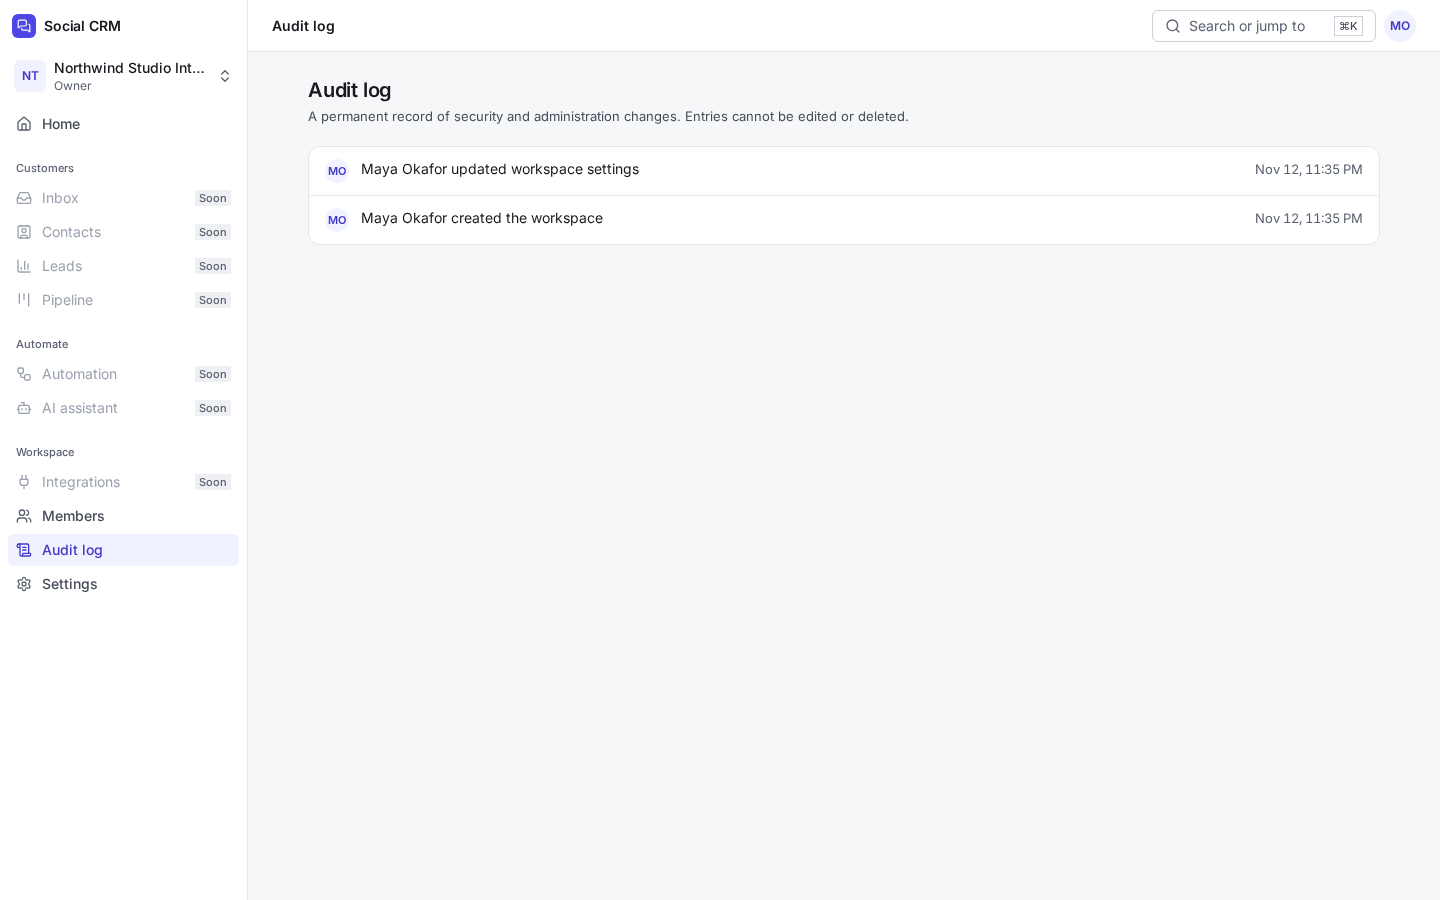
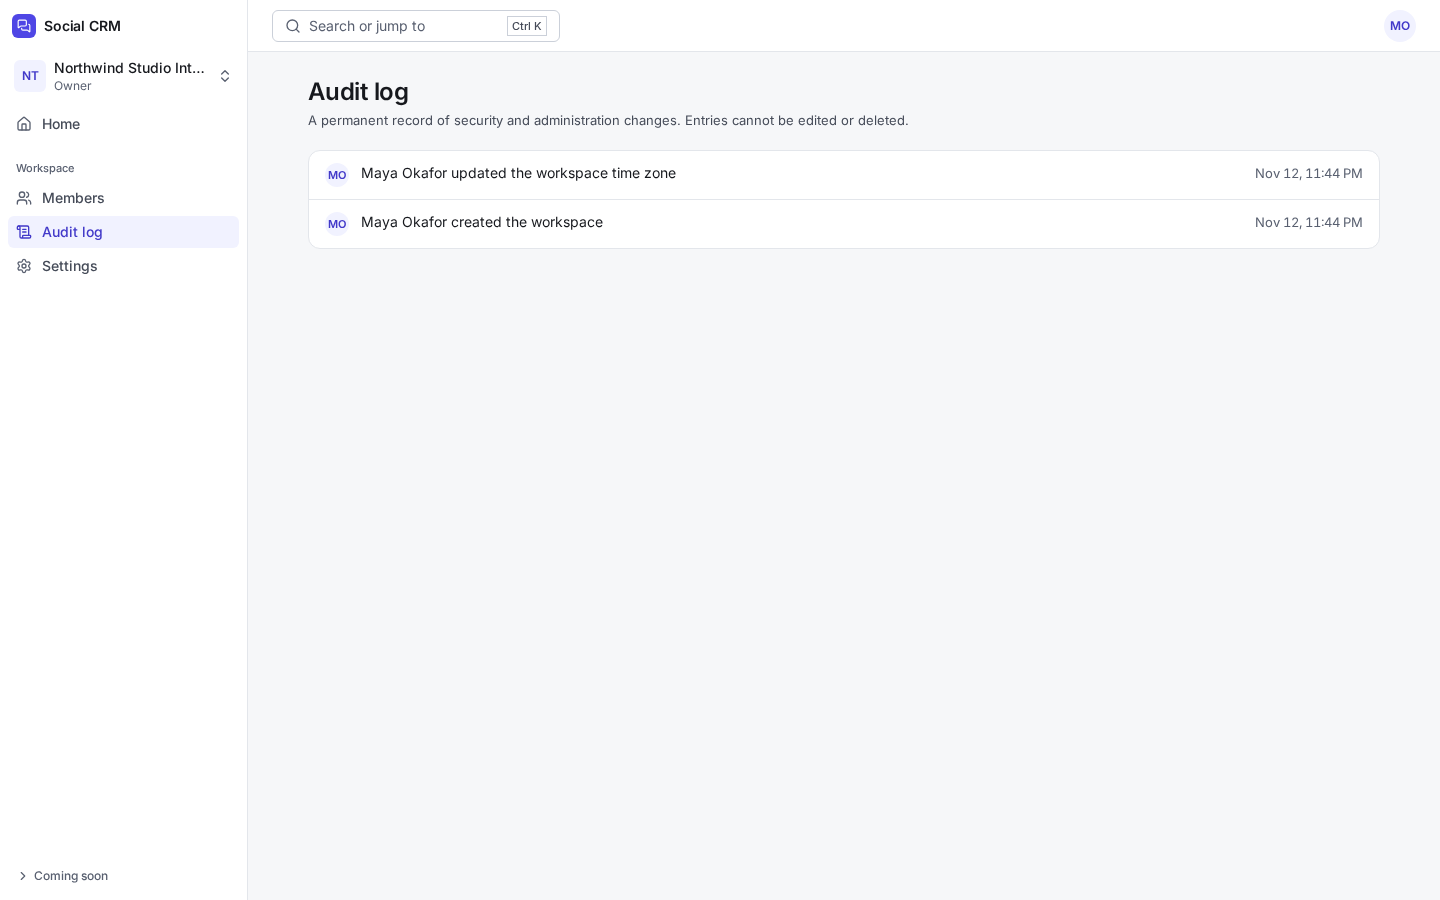
docs: design critique and refreshed screenshots

diff --git a/docs/design/critique-phase1-shell.md b/docs/design/critique-phase1-shell.md
@@ -1,0 +1,206 @@
+# Critique: Phase 1 web shell
+
+Scope: `docs/design/screenshots/phase1-shell/*` (19 PNGs) and the code in `apps/web/app/**`, `apps/web/components/**`, `apps/web/lib/nav.ts`, `packages/design-tokens/src/tokens.ts`, `apps/web/app/globals.css`. Reviewed against `PRODUCT.md` and `docs/design/design-system.md`. Static review of screenshots and source; nothing was run. Findings marked "verify" rest on code reading, not a live repro.
+
+Severity: blocker = ship-stopper or breaks a stated requirement; major = clearly hurts quality or accessibility, fix before Phase 2 builds on it; minor = polish or consistency.
+
+Overall: the shell is clean and restrained, but it reads as a competent shadcn default. It has no point of view yet, and the nav carries a lot of promise (7 of 11 items disabled). Phase 1 has real bugs in focus styling and the drawer, one product-honesty problem (roadmap phases shown to customers), and a weak type hierarchy.
+
+---
+
+## Blockers
+
+### B1. Global focus rule is unlayered and overrides Tailwind utilities, so focus and radius break everywhere
+- Where: `apps/web/app/globals.css:75-76`. Visible in `command-menu-1440.png` (search input has a detached blue box offset up and left of the field) and `role-dialog-1440.png`.
+- Problem: `:focus-visible { outline: 2px solid; outline-offset: 2px; border-radius: 4px; }` sits outside any `@layer`. Unlayered CSS beats Tailwind v4's layered utilities. So `outline-none` on the command input, dropdown items and `<main>` is ignored, and `border-radius: 4px` rewrites the radius of whatever is focused. A `rounded-full` avatar trigger becomes a 4px square on focus. Buttons, inputs and nav links change shape when focused.
+- Why it matters: focus indication is the most-used a11y affordance and it is visibly wrong. The command palette is the flagship interaction. `<main tabindex=-1>` will also show a ring after the skip link.
+- Fix: wrap the base rules in `@layer base { ... }`. Drop `border-radius` from the rule and set the ring with `outline` only. Use `outline-offset: 2px` on controls and `-2px` on inputs inside bordered containers (the cmdk input). Then delete the stray `outline-none` classes that were fighting it, or keep them only where the ring is deliberately replaced (cmdk selected rows).
+
+### B2. Product roadmap leaks into customer UI and the nav is mostly dead
+- Where: `lib/nav.ts:22-38`, `app/w/[workspaceId]/page.tsx:16-21`, `sidebar-nav.tsx:21-31`, `home-1440.png`, `drawer-375.png`, `command-menu-1440.png`.
+- Problem: 7 of the 11 nav entries are disabled "Soon". Their reasons are tooltips reading "Contacts arrive in Phase 2" and "Meta integration arrives in Phase 3". Home's checklist repeats the same phase numbers. "Phase N" is internal planning vocabulary. `PRODUCT.md` says unavailable features are shown "as unavailable with a reason", but a customer cannot act on "Phase 2".
+- Why it matters: the first screen of the product advertises what does not exist. The three working destinations (Members, Audit log, Settings) look like footnotes under a wall of grey. Attio, Linear, Stripe and Intercom do not ship greyed-out nav; users learn to ignore the grey and start distrusting the rest.
+- Fix (pick one, in order of preference):
+  1. Remove unbuilt items from the primary nav. Home's "Getting started" becomes the single honest roadmap: "Connect Messenger or Instagram: not available yet", with no phase numbers.
+  2. If the product wants to show the shape, collapse all unbuilt items into one "Coming soon" disclosure at the bottom of the nav (`<details>` or a button with `aria-expanded`, closed by default). Render items as plain non-interactive text, not links. One line of copy, not seven tooltips.
+  3. Keep at most Inbox, Contacts and Pipeline visible as the "spine", with one shared "Soon" treatment.
+  Either way, strip "Phase N" from every user-facing string.
+
+---
+
+## Major
+
+### M1. Disabled nav items are fake links: focusable, `role="link"`, no action, reason partly tooltip-only
+- Where: `sidebar-nav.tsx:23`.
+- Problem: `<span tabindex=0 role="link" aria-disabled>` puts seven dead stops in the tab order, and Enter does nothing. A `role="link"` with no `href` and no activation breaks the ARIA contract. The reason is an sr-only description plus a hover/focus tooltip. Touch users never see the tooltip: that covers the 375 drawer (`drawer-375.png`) and the 768 rail, which is an iPad portrait width. `fg-disabled` (#9AA1AE) on white is about 2.6:1, so the labels are also hard to read.
+- Fix: if kept, render as `<div aria-disabled="true">` with no `role=link`. Make it non-tabbable, or tabbable with `role="note"` (a deliberate choice). Put the reason inline as visible text, or reachable by tap through a popover, not hover only. Use `fg-subtle` (#596070, 6.4:1) for the label and distinguish disabled by dropping the icon, not by low contrast. Best resolved by B2.
+
+### M2. Drawer stays "open" (modal state, aria-hidden, scroll lock) when the viewport crosses `md`
+- Where: `app-shell.tsx:51-65`. The drawer content and overlay use `md:hidden`, but the Radix `open` state persists.
+- Problem: rotating a tablet or resizing a window with the drawer open leaves the visual drawer gone while Radix still marks the page `aria-hidden` and applies `pointer-events: none` to the body. The app is dead until Esc (verify).
+- Fix: close on `matchMedia("(min-width: 768px)")` change. Or render the drawer only below `md`, using a hook that returns `isMobile`.
+
+### M3. Command menu: the useful items are below the fold and the list is mostly disabled
+- Where: `command-menu.tsx:36-45`, `command-menu-1440.png`.
+- Problem: "Go to" lists all 11 pages in nav order. The first screen shows Home plus six disabled "Not available yet" rows. Members, Audit log and Settings are cut off by `max-h-80`. There is no current-page marker, no footer hints, and no fuzzy aliases.
+- Fix: do not list disabled items (consistent with B2). Sort enabled items first. Add a footer row ("↑↓ navigate, ↵ open, Esc close"). Add actions that are real now: "Invite member (not available)" is not one, but "Change workspace name" is. Mark the current page.
+
+### M4. Type hierarchy is flat: page title is 20px, topbar title is 14px, and they duplicate
+- Where: `panel.tsx:24` (h1 `text-lg`=20px), `app-shell.tsx:70` (topbar `<p>` 14px semibold), `tokens.ts:70`. Visible on every 1440 shot ("Home" in the bar, then the workspace name below it).
+- Problem: the scale defines 11, 12, 13, 14, 16, 20, 24 and 28px. The app uses 11, 12, 13, 14 and 20 only, and 24/28 never appear. Four near-identical small sizes (11/12/13/14) carry all the information. The topbar repeats what the h1 says, and is a `<p>`, so there is no landmark title. On Home the h1 is the workspace name (long, wraps to 2 lines at 375) while the bar says "Home", so there are two competing titles.
+- Fix:
+  - Collapse the working scale to 12 / 14 / 16 / 20 / 28, and drop 11 and 13 unless a role needs them.
+  - Make the topbar a breadcrumb or context ("Northwind Studio / Members") or empty, never a second title. The page h1 is the title.
+  - Raise page h1 to 24px/600 with -0.02em, and give section h2s 14px/600 uppercase-free. That is the Linear/Stripe level of contrast.
+  - Move the repeated `tracking-[-0.01em]` (4 uses) into a `--tracking-tight` token.
+
+### M5. Members table: date wraps to 3 lines at 768, row density contradicts the spec, dead rows
+- Where: `members-table.tsx:113`, `table.tsx:16`, `members-768.png`, `members-1440.png`.
+- Problem:
+  - At 768 "Nov 12, 2026" breaks into three lines ("Nov / 12, / 2026"). The TD lacks `whitespace-nowrap` and the email column is greedy.
+  - Rows are about 61px against the design system's default of about 40px. Email as a second line plus a 32px avatar is "comfortable" density, but is presented as the default.
+  - The Owner row has an empty actions cell with no explanation. The `TR` hover `bg-subtle` (#FAFAFB on white, about 1.04:1) is imperceptible and implies the row is clickable when it is not.
+  - Name column dominates (about 700px at 1440) so Role and Joined float far from the name.
+  - Seeded emails like `mayaokafor-mwehgm8a-27@example.com` look like test fixtures. The realistic-content rule is broken in the one screenshot that is all data.
+  - There is no member count, search, or Invite action (disabled with a reason, per the product rules).
+- Fix: `whitespace-nowrap tnum` on the Joined cell. Put email in its own column and keep a single-line row at about 44px. Make the name column `max-w`, not greedy. Show a muted "Owner" explanation, or an `aria-label` on a disabled kebab, for rows with no actions. Drop the row hover or give it a real affordance. Add a disabled "Invite member" button with an inline reason ("Invitations aren't available yet."). Re-seed with clean emails.
+
+### M6. Role dialog: initial focus lands on the Close button; disabled primary has no explanation
+- Where: `overlays.tsx:50-63`, `role-dialog-1440.png`. Focus ring is on the X. The primary "Save role" is `opacity-50` lavender with white text (about 2:1).
+- Fix: put initial focus on the Select with `onOpenAutoFocus` and a ref. Drop the always-visible X in small confirm dialogs (Esc and Cancel already exist). Show "Save role" disabled only with the helper text "Choose a different role to save." Replace `disabled:opacity-50` with explicit disabled tokens that keep 3:1 for the UI component.
+
+### M7. Auth: no recovery path, validation does not move focus, dead-end onboarding
+- Where: `auth-form.tsx`, `create-workspace-form.tsx`, `login-errors-*.png`, `onboarding-1440.png`.
+- Problem:
+  - Sign-in has no "Forgot password" link. Show it disabled with a reason if the flow does not exist.
+  - On submit with errors, focus stays on the button. Move focus to the first invalid field and consider an `aria-live` summary.
+  - Register's password hint ("At least 10 characters.") disappears the moment an error shows. `Field` hides the hint but `aria-describedby` still points at its missing id (`field.tsx:10,15`).
+  - Onboarding gives a first-time user no way out (no Sign out) unless `?new=1`. A wrong-account user is stuck.
+  - Card widths differ: auth `max-w-sm` (384px), onboarding `max-w-md` (448px), at the same visual level.
+  - The password field has no show/hide toggle, and `globals.css:79` explicitly hides the native one.
+  - Welcome copy "Pick up your conversations." promises an inbox that does not exist.
+- Fix: add the toggle, a first-error focus helper, and a Sign out link in onboarding. Align both cards to one width. Keep the hint visible alongside the error, or render both. Change the copy to what is true ("Sign in to your workspace.").
+
+### M8. Inputs are 14px, which triggers iOS Safari zoom on focus
+- Where: `input.tsx:5` (`text-base` = 14px). Relevant at 375 for login, settings and onboarding.
+- Fix: `text-md` (16px) on controls at coarse pointers or below `md`. Verify: `pointer-coarse:text-md`.
+
+### M9. Skeleton is one table-shaped placeholder for every route
+- Where: `app/w/[workspaceId]/loading.tsx`.
+- Problem: it shows a list of rows with avatars while Home is two panels and Settings is a form. The design system promises "skeleton loading shaped like the final content". This causes layout jump. It also double-announces (`role=status aria-label` plus an sr-only "Loading…").
+- Fix: per-route `loading.tsx`, or a small `PageSkeleton` with `variant="list|panels|form"`. Keep a single accessible label.
+
+### M10. Browser-surface theming is incomplete
+- Where: `app/layout.tsx`, `globals.css:61-79`.
+- Problem: no `viewport`/`themeColor` export (mobile address bar stays default), no favicon or app icons, no `accent-color` for native checkbox/radio, no autofill override (Chrome paints a yellow/blue fill on the auth inputs against the white card), no `color-scheme` meta. Dark mode switches only `color-scheme` on `html[data-theme=dark]` and nothing drives it. The Select chevron is a hard-coded data URI (see M12).
+- Fix: export `viewport = { themeColor: [{ media: "(prefers-color-scheme: light)", color: "#F6F7F9" }, ...] }`. Add `accent-color: var(--accent)`. Add an `input:-webkit-autofill` rule using `box-shadow: inset 0 0 0 100px var(--bg-surface)` plus a text-fill color. Add `app/icon.svg`. Add `::-webkit-scrollbar` fallback for Safari.
+
+### M11. Audit log: low information, awkward 375 layout
+- Where: `audit-list.tsx`, `audit-1440.png`, `audit-375.png`.
+- Problem:
+  - "Maya Okafor updated workspace settings" does not say what changed. An audit log that hides the diff, target and time precision is a feed, not an audit record.
+  - Timestamps have no year (`formatDateTime`). Ambiguous across years.
+  - At 375 the timestamp sits beside the text and takes about 110px, squeezing the sentence to 2 lines.
+  - The 24px avatar with 11px initials looks cramped and sits 2px low relative to the first text line (visible in both screenshots).
+- Fix: show the change ("Name: 'Northwind' to 'Northwind Studio'", "Time zone: UTC to America/New_York"). Below `sm`, stack the time under the text. Include the year when it differs from the current one. Align avatar with `mt-0.5` or `items-center` for single-line rows.
+
+### M12. Token bypasses and weak three-layer discipline
+- Where:
+  - `tokens.ts:47,50,51,52,53,56,58-65` (dark semantic values hard-coded as raw hex, not primitives). `tokens.ts:8` has a `dark` primitive group that is half used.
+  - `input.tsx:13` (chevron stroke `%23596070` hard-coded, so it will not follow the theme).
+  - Arbitrary values: `app-shell.tsx:54` (`w-[min(300px,85vw)]`), `command-menu.tsx:24` (`top-[12vh]`), `overlays.tsx:31` (`max-w-[calc(100vw-16px)]`), `members-table.tsx:92` (`pl-11`, a magic number tied to avatar 32px + gap 12px), `tracking-[-0.01em]` x4.
+- Why it matters: the design system promises primitive, semantic and component layers with CI contrast checks. Raw hex in semantic dark breaks that and nothing validates the pairs.
+- Fix: move the dark values into primitives. Use `currentColor` plus a mask or a lucide `ChevronDown` absolutely positioned for the select chevron. Add `--drawer-w`, `--palette-top` and `--tracking-tight` tokens, and use `pl-[calc(var(--avatar-md)+theme(spacing.3))]` or restructure so the badge is aligned by layout (grid with the avatar column), not padding.
+
+---
+
+## Minor
+
+### m1. Workspace switcher and logo are redundant and the workspace avatar is ambiguous
+- `app-shell.tsx:43-46`, `workspace-switcher.tsx`, `avatar.tsx:6-10`. Two identity rows stack (logo, then workspace). The workspace tile reads "NT" because `initials()` takes first and last word ("Northwind ... Team"). The workspace tile and user avatar share the same accent-subtle fill. Long names truncate at about 150px (`Northwind Studio Int…`) with no `title`.
+- Fix: Linear/Attio fold the product mark into the switcher. Drop the separate "Social CRM" wordmark row in-app, or move it to the topbar corner. Use the first two letters or first two words for workspace initials, and a neutral square tile for workspaces versus a round tile for people. Allow the name two lines or add a `title`.
+- Also: `ChevronsUpDown` is right; add a keyboard hint and a "Workspace settings" link in the menu. `aria-current="true"` on a `menuitem` is non-standard; use `DropdownMenuRadioItem`.
+
+### m2. Brand is placeholder
+- `logo.tsx`: "Social CRM" with a generic `MessagesSquare` icon in an indigo square. It is a category name, not a brand, and the same chat-bubble glyph is the default for every inbox product. Not a Phase 1 blocker, but it is the only brand element on the auth screens.
+
+### m3. Rail at 768 is icon-only, labelled only by tooltip
+- `home-768.png`, `members-768.png`, `sidebar-nav.tsx:46`. Tooltips do not work on touch. The rail uses `lg:` as the expand breakpoint, but 768 to 1023 is precisely where tablets live. Two stacked tiles (logo, then "NT") also read as two logos.
+- Fix: expand the sidebar from `md`, or make the rail label-on-tap (press and hold or an expand toggle). Add a divider between the logo and the workspace tile.
+
+### m4. `⌘K` is hard-coded; shown on touch and non-Mac
+- `app-shell.tsx:72`. Linux and Windows users see ⌘. Show `Ctrl K` by platform, and hide the hint under `pointer-coarse`. The `sm:` breakpoint swap to an icon-only button below 640 is fine.
+
+### m5. Active nav state is faint
+- `sidebar-nav.tsx:40`. `bg-selected` is #F1F2FF on white (about 1.1:1). It reads through text color alone, so it is nearly invisible on low-quality displays. Fine for AA because of `aria-current`, but a 2px left indicator or `accent-subtle` at -100 would help. Compare Linear's explicit selected row.
+
+### m6. Home page composition
+- `page.tsx:33-69`, `home-1440.png`. "Getting started" is mostly non-actionable (three "later" rows, one auto-"Done" step). The "Recent activity" panel stretches to the full row height, leaving an empty box. The "Owner" badge top right duplicates the sidebar. The subtitle shows a raw IANA zone ("America/New_York") as a data point.
+- Fix: show only real next actions (for example "Review members" linking to `/members`), remove the self-completing "Create your workspace" step, set `items-start` on the grid so panels size to content, format zone as "Eastern Time", drop the redundant badge.
+- At 375 the h1 wraps to 2 lines and the metadata line breaks in the middle of the date; keep each fact unbreakable (`whitespace-nowrap` per segment).
+
+### m7. Settings panel
+- `workspace-form.tsx`, `settings-1440.png`. "Save changes" is always enabled (no dirty state). The success `Alert` mounts above the form and shifts the layout, and persists after further edits (`saved` clears only on submit). The time zone `<select>` is a native list of about 400 entries with no search. Read-only viewers see disabled inputs and no Save, which is fine because the panel description explains it. The account name and email silently become `""` if `/v1/me` fails.
+- Fix: disable Save until dirty, show the "Saved" state inline on the button and clear it on change, replace the select with a searchable combobox (cmdk is already installed), render a visible error when `me` fails.
+
+### m8. Page, error and 404 states lack structure
+- `app/error.tsx`, `app/not-found.tsx`, `app/w/[workspaceId]/error.tsx`, `states.tsx:10,21`. `EmptyState` and `ErrorState` use `h3` with no `h1` above them on the standalone error and 404 pages (heading level skip). The error pages have no logo or navigation back besides Retry. The Members error state says "Reload the page" with no Retry button (`members/page.tsx`).
+- Fix: allow a `level` prop (default `h2`, `h1` on full-page states), add "Go home" plus a support or digest line to global error, give Members a retry control.
+
+### m9. Component variants are inconsistent or unused
+- `button.tsx:22-26`: `icon` with `size="lg"` has no compound variant (renders `px-0` with no width, which collapses). `danger` hover is `opacity-90`, which looks like a disabled state. `ghost` and `secondary` have `active` identical to `hover`. Loading adds a spinner that shifts the label by 20px (no reserved width).
+- Never used in the shell: `Badge` tones success/warning/danger, `Alert` info/warning, `Avatar` `lg` and `src`, `PanelHeader` `actions`. Either exercise them or drop them until needed.
+- `Input` lacks a `readOnly` style and a visible hover on error. `Select` has no custom focus. Neither shows an icon alongside the red border for error (the text carries the meaning, so this is polish).
+- `Table` header corners (`first:rounded-tl-xl`) rely on the Panel's radius while the table sits in an `overflow-x-auto` wrapper without clipping.
+
+### m10. Dropdown rows are under 44px at coarse pointers
+- `overlays.tsx:38`. `pointer-coarse:py-2.5` yields about 40px, below the 44pt iOS and 48dp Android targets the design doc cites.
+- Fix: `pointer-coarse:min-h-11`. Also hamburger and kebab at coarse are 44px (good), but the `sm` search button is only `h-8` at pointer-fine.
+
+### m11. Copy
+- Three phrasings for one concept: "Soon", "Not available yet", "arrive in Phase N". Pick one.
+- Tooltip text repeats the label ("Contacts: Contacts arrive in Phase 2.").
+- "Visible to everyone who works here." is vague; say "Everyone in this workspace sees the name and time zone."
+- Owner role help text promises "ownership transfer and deleting the workspace", which do not exist.
+- Checklist "Done" for a step that is always done tells the user nothing.
+
+### m12. Content width and alignment
+- `app-shell.tsx:78`, `tokens.ts:74`. At 1440 the 1120px content is centered in the main area, so the left edge floats 60px in from the sidebar, while the Settings column hugs the left at 640px (`max-w-2xl`). Pick one: left-aligned with a max width, or consistently centered.
+
+---
+
+## Accessibility beyond axe (summary)
+
+| Item | Status |
+|---|---|
+| Skip link, `main` landmark, `aria-current`, labelled icon buttons | Present, good |
+| Disabled nav as focusable `role=link` | Fails the spirit of the ARIA spec (M1) |
+| Reasons hidden in hover-only tooltips for touch | Fails (M1, m3) |
+| Focus ring overridden by unlayered CSS; radius jumps | Fails (B1) |
+| Drawer left modal after breakpoint change | Bug (M2) |
+| Dialog initial focus on Close, not the control | Poor (M6) |
+| Focus not moved to the first invalid field | Poor (M7) |
+| Topbar title is a `<p>`; error pages lack `h1`; `aside` unlabelled | Structural (M4, m8) |
+| `fg-disabled` text about 2.6:1; disabled primary about 2:1 | Readability (M1, M6) |
+| Color-only meaning | Mostly OK: checklist uses shape plus sr-only text; alerts have icons; role badges are text |
+| Reduced motion handled in CSS | Good |
+
+---
+
+## What is genuinely working
+
+- Restraint: one accent, white surfaces, 1px borders, a single popover shadow, no gradients or glass. It matches the brief.
+- Token-driven Tailwind theme (`--color-*: initial` reset) forces use of the system; most components consume it correctly.
+- Real handling of coarse pointers (`pointer-coarse:h-11`) on buttons, inputs, nav and menu items.
+- Radix and cmdk for overlays, a skip link, `aria-current`, labelled icon-only controls, `role=alert` on errors, `aria-busy` on loading buttons.
+- Mobile members table is a purpose-built stacked list, not a squashed table, and role and actions stay visible.
+- `Field` wires label, hint and error to the control with ids; error copy names the problem and the fix.
+- Permission-aware nav and consistent Panel/PageHeader vocabulary across Home, Members, Audit and Settings.
+- Truthful states where they exist: the Settings read-only explanation, the remove-member dialog consequence text, the connection-error message in auth.
+- Browser-level touches already present: `::selection`, `caret-color`, thin scrollbars, placeholder color, reduced-motion.
+
+## Suggested fix order
+1. B1 (focus layer), M2 (drawer), M8 (iOS zoom): small, high-impact code fixes.
+2. B2 plus M1 plus M3 (nav honesty, one decision that resolves three findings).
+3. M4 (type scale and topbar), M5, M6, M7, M10, M12.
+4. Everything else as polish before Phase 2 builds list views on this table and shell.
